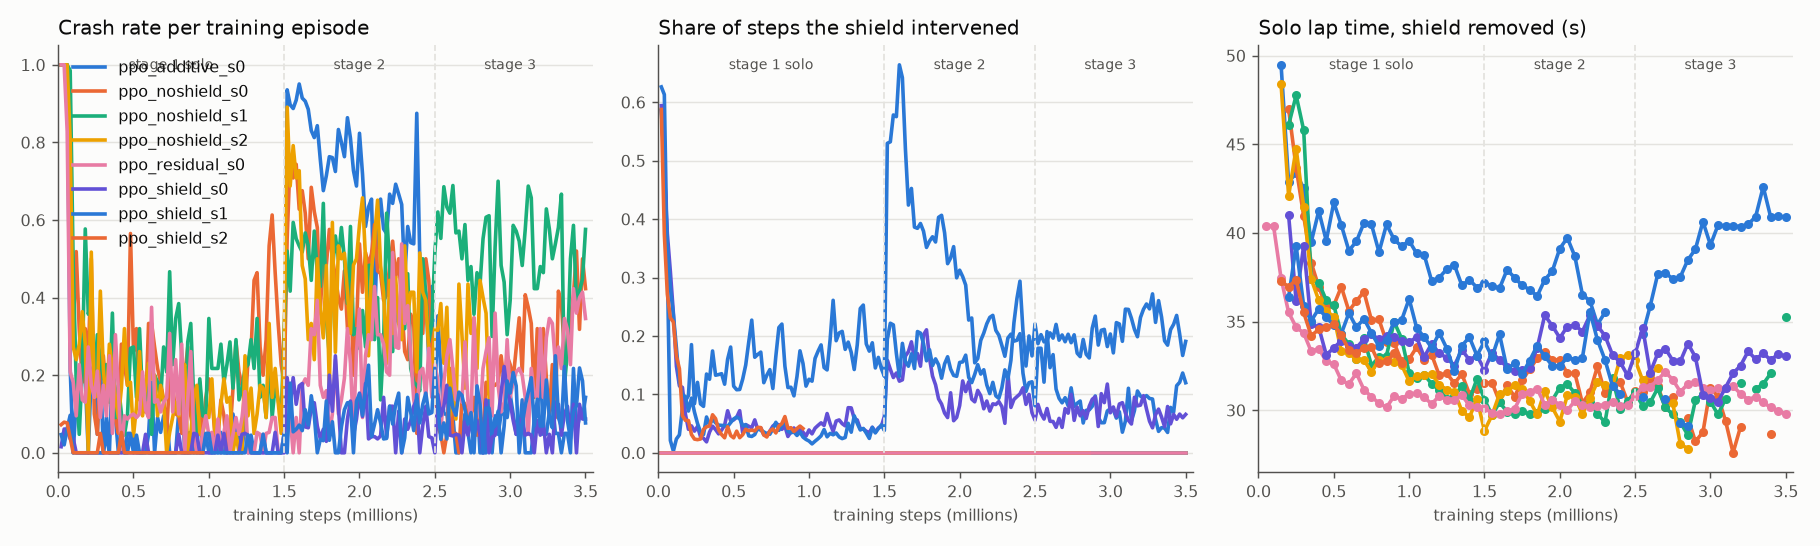
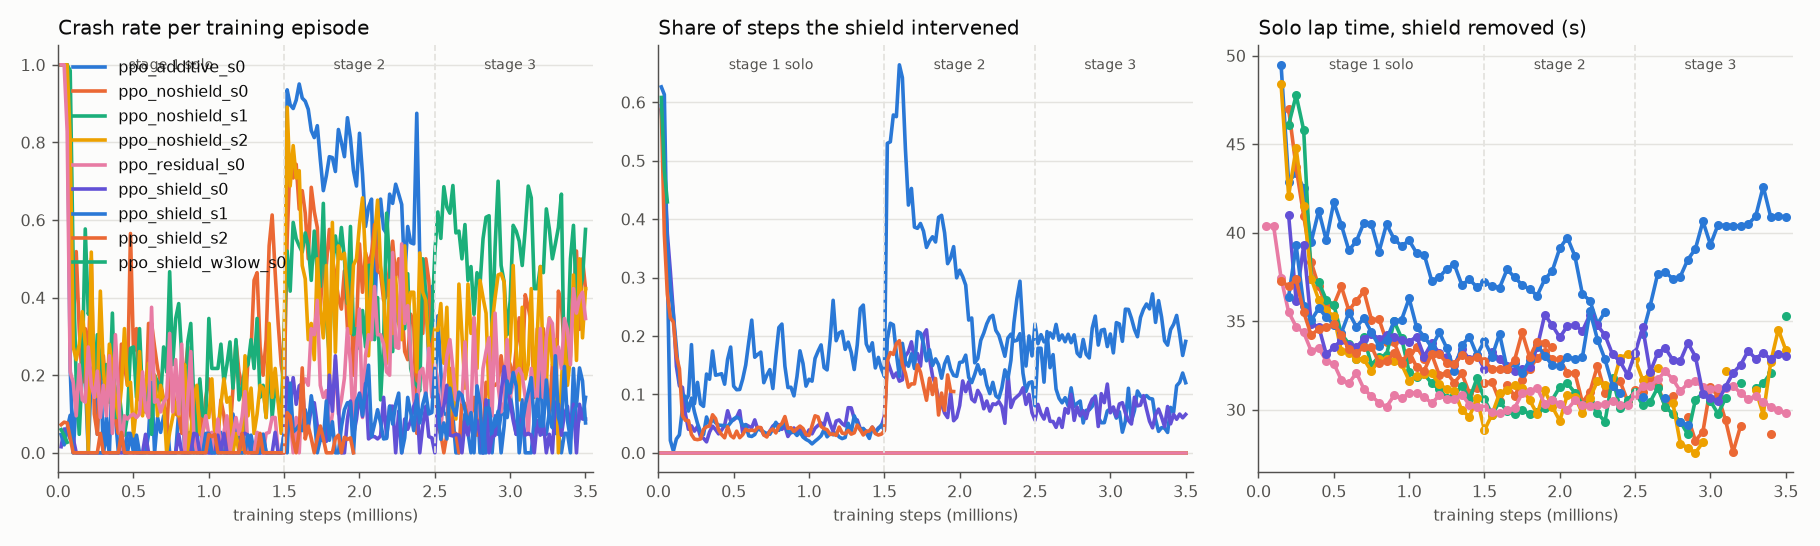
Auto-sync training progress (18:14)

diff --git a/RUNS.md b/RUNS.md
@@ -1,6 +1,6 @@
 # Run registry
 
-Auto-generated by `python -m scripts.update_registry` (2026-11-04 18:12). Each run directory `runs/<run>/` holds `args.json`, `run_info.json` (git commit, command, status), `train_log.csv` (every ~20k steps), `eval_log.csv` (solo laps with/without shield every 50k steps), `model_stage*.zip` + `vecnorm_stage*.pkl` (checkpoint after each curriculum stage). TensorBoard logs (`runs/*/tb`) stay local.
+Auto-generated by `python -m scripts.update_registry` (2026-11-04 18:14). Each run directory `runs/<run>/` holds `args.json`, `run_info.json` (git commit, command, status), `train_log.csv` (every ~20k steps), `eval_log.csv` (solo laps with/without shield every 50k steps), `model_stage*.zip` + `vecnorm_stage*.pkl` (checkpoint after each curriculum stage). TensorBoard logs (`runs/*/tb`) stay local.
 
 ## Training runs
 
@@ -13,7 +13,8 @@ Auto-generated by `python -m scripts.update_registry` (2026-11-04 18:12). Each r
 | `ppo_residual_s0` | ResRace/RaceMOP-style: PPO residual on top of PID+APF (APF shapes every command) | shield=off residual seed=0 tyre=saturated | `5549760` | finished | 3.50M | 14% / 22% / 22% | 50k | 29.80 / 29.80 | 0% | stage1, stage2, stage3 |
 | `ppo_shield_s0` | Ours: PPO + action-conditioned APF shield with fallback (grip reach), all stages | shield=cond_fb_grip seed=0 tyre=saturated | `afc94c8 +dirty` | finished | 3.50M | 1% / 9% / 7% | 200k | 30.48 / 33.04 | 6% | stage1, stage2, stage3 |
 | `ppo_shield_s1` | Ours, seed 1 | shield=cond_fb_grip seed=1 tyre=saturated | `0152028` | finished | 3.50M | 1% / 9% / 11% | 200k | 29.12 / 29.12 | 20% | stage1, stage2, stage3 |
-| `ppo_shield_s2` | Ours, seed 2 | shield=cond_fb_grip seed=2 tyre=saturated | `41be473` | running | 1.84M | 1% / 5% / - | 150k | 32.20 / 32.96 | 11% | stage1 |
+| `ppo_shield_s2` | Ours, seed 2 | shield=cond_fb_grip seed=2 tyre=saturated | `41be473` | running | 1.96M | 1% / 4% / - | 150k | 32.20 / 33.52 | 10% | stage1 |
+| `ppo_shield_w3low_s0` | Timidity test: ours with intervention penalty w3 = 0.02 (default 0.1) | shield=cond_fb_grip seed=0 tyre=saturated | `8eb284b` | running | 0.06M | 4% / - / - | - | - / - | 51% | - |
 
 ### Commands and notes
 
@@ -27,6 +28,7 @@ Auto-generated by `python -m scripts.update_registry` (2026-11-04 18:12). Each r
   Note: Stage 2/3 subprocesses re-imported code at spawn time and picked up the retuned PID opponents (curvature feed-forward, d735552). Stage 1 is solo, so unaffected.
 - `ppo_shield_s1`: `python -m racing.train --shield cond_fb_grip --stages 1 2 3 --steps 1500000 1000000 1000000 --n_envs 7 --seed 1 --out runs/ppo_shield_s1`
 - `ppo_shield_s2`: `python -m racing.train --shield cond_fb_grip --stages 1 2 3 --steps 1500000 1000000 1000000 --n_envs 7 --seed 2 --out runs/ppo_shield_s2`
+- `ppo_shield_w3low_s0`: `python -m racing.train --shield cond_fb_grip --w3 0.02 --stages 1 2 3 --steps 1500000 1000000 1000000 --n_envs 7 --seed 0 --out runs/ppo_shield_w3low_s0`
 
 ## Result files (`results/`)
 

diff --git a/results/training_efficiency.md b/results/training_efficiency.md
@@ -7,8 +7,9 @@ Solo laps every 50k steps, standing start. 'fast' = under 34 s (best classical s
 | `ppo_additive_s0` | additive | 3500k | 150k | - | 783 | 2333 (5146) | 34.28 |
 | `ppo_noshield_s0` | off | 3500k | 200k | 850k | 995 | 2318 (5249) | 27.60 |
 | `ppo_noshield_s1` | off | 3500k | 200k | 600k | 1080 | 2769 (5517) | 28.60 |
-| `ppo_noshield_s2` | off | 2860k | 150k | 550k | 969 | 2061 (4515) | 27.84 |
+| `ppo_noshield_s2` | off | 3500k | 150k | 550k | 969 | 2295 (5267) | 27.56 |
 | `ppo_residual_s0` | off residual | 3500k | 50k | 350k | 259 | 995 (4141) | 29.80 |
 | `ppo_shield_s0` | cond_fb_grip | 3500k | 200k | 450k | 8 | 234 (4158) | 30.48 |
 | `ppo_shield_s1` | cond_fb_grip | 3500k | 200k | 800k | 9 | 313 (4572) | 29.12 |
-| `ppo_shield_s2` | cond_fb_grip | 960k | 150k | 600k | 11 | 13 (1071) | 32.64 |
+| `ppo_shield_s2` | cond_fb_grip | 1960k | 150k | 600k | 11 | 47 (2268) | 32.20 |
+| `ppo_shield_w3low_s0` | cond_fb_grip | 60k | - | - | - | 7 (149) | - |
